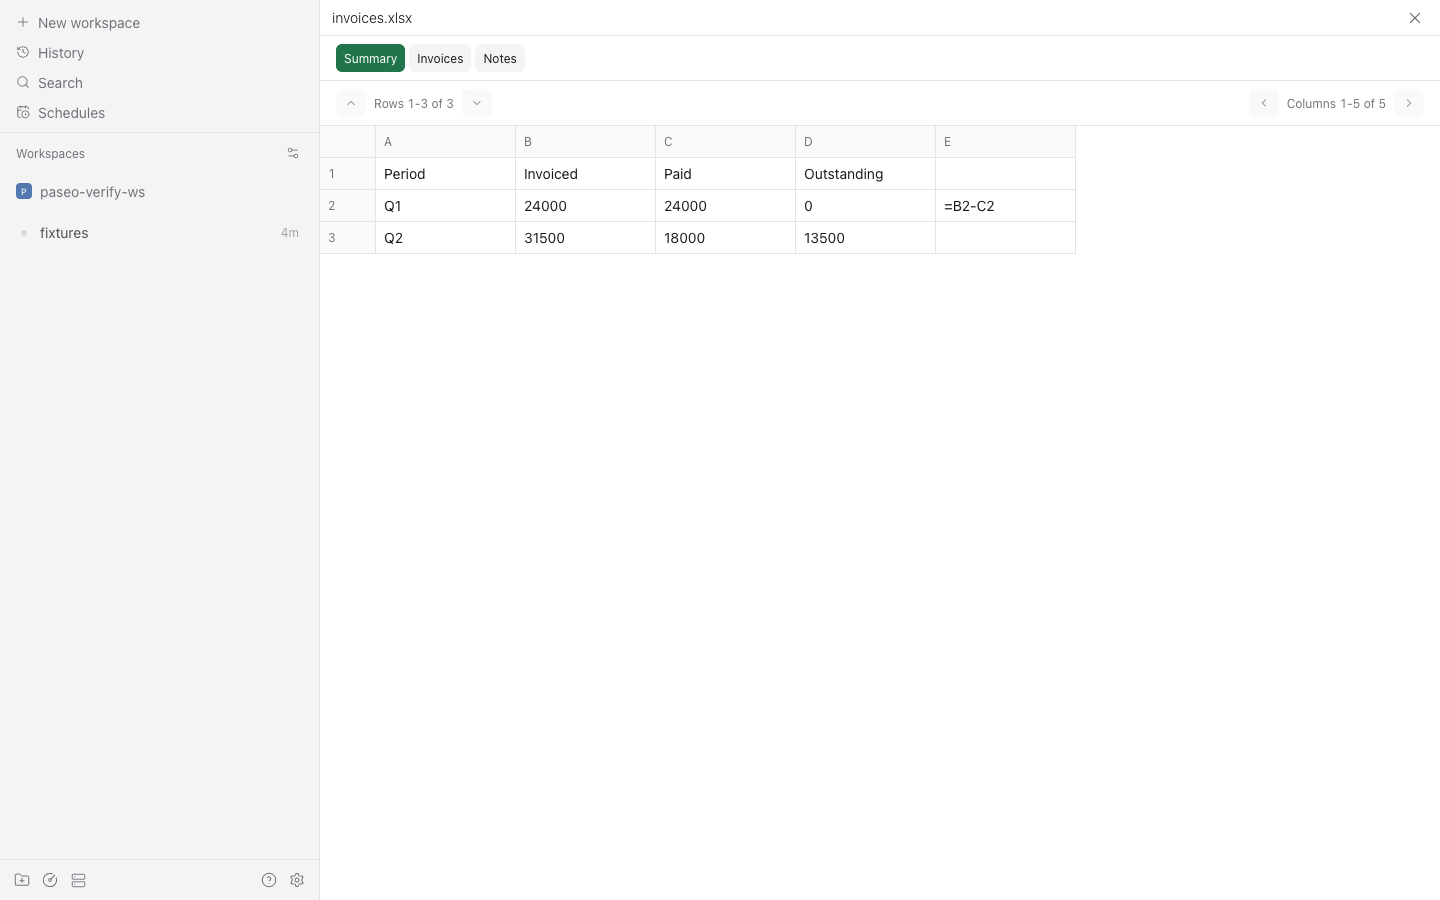
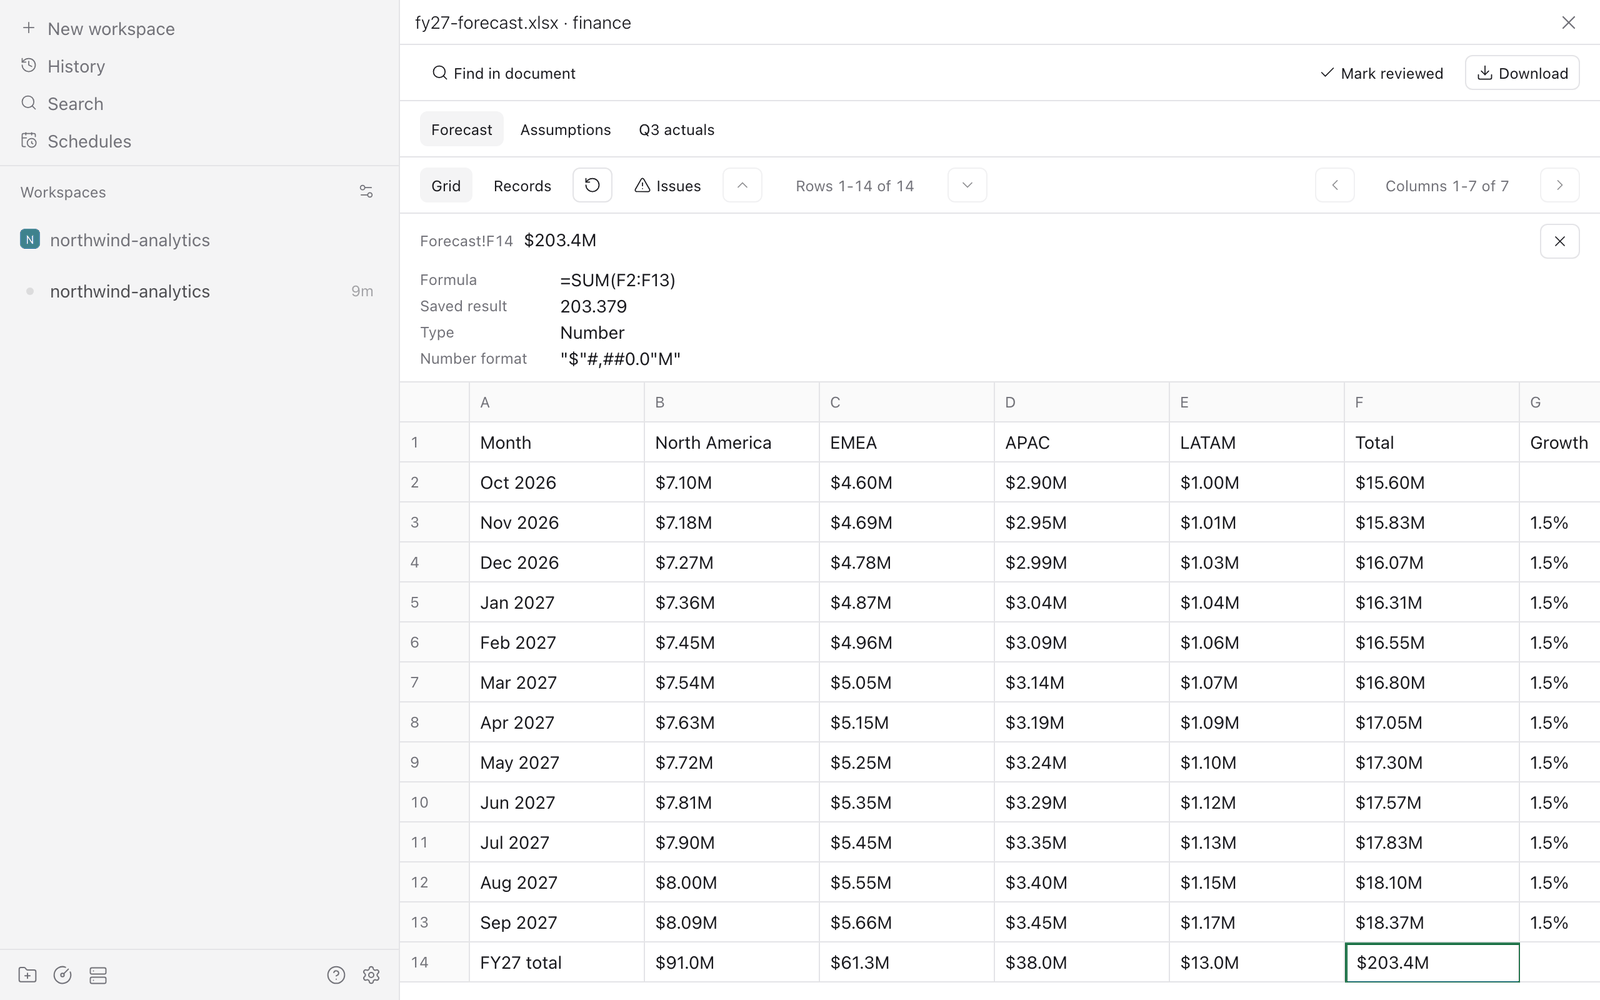
docs: listing screenshots from the current UI
The old images showed an earlier UI and test fixtures. The turn card comes
first, then Documents with the New filter, a review message, a workbook
formula and three phone-width views. Taken on an isolated daemon with demo
files; 440 KiB in total.

diff --git a/README.md b/README.md
@@ -1,6 +1,6 @@
 # PDF and Office viewer for Paseo
 
-![PDF, Word and Excel files open in Paseo on desktop, iOS and Android](assets/screenshot-overview.png)
+![An agent turn in Paseo ends with a card listing the three documents it changed, each marked New or Changed with an Open button](assets/screenshot-turn-card.png)
 
 A [Paseo](https://github.com/getpaseo/paseo) plugin that shows PDF, Word, Excel, CSV, JSON Lines, Parquet, PowerPoint, image, video and audio files from your workspace inside the app, on desktop, web and mobile. Documents are rendered on the daemon host with pure JavaScript and WebAssembly, so nothing needs to be installed there. When an agent turn ends, a card in the agent's timeline lists the documents changed while it ran, with Open buttons and a Settings link to turn the cards off. The Documents panel has a New filter for files added or changed since your last visit. [OVERVIEW.md](OVERVIEW.md) describes what users see and the limits.
 
